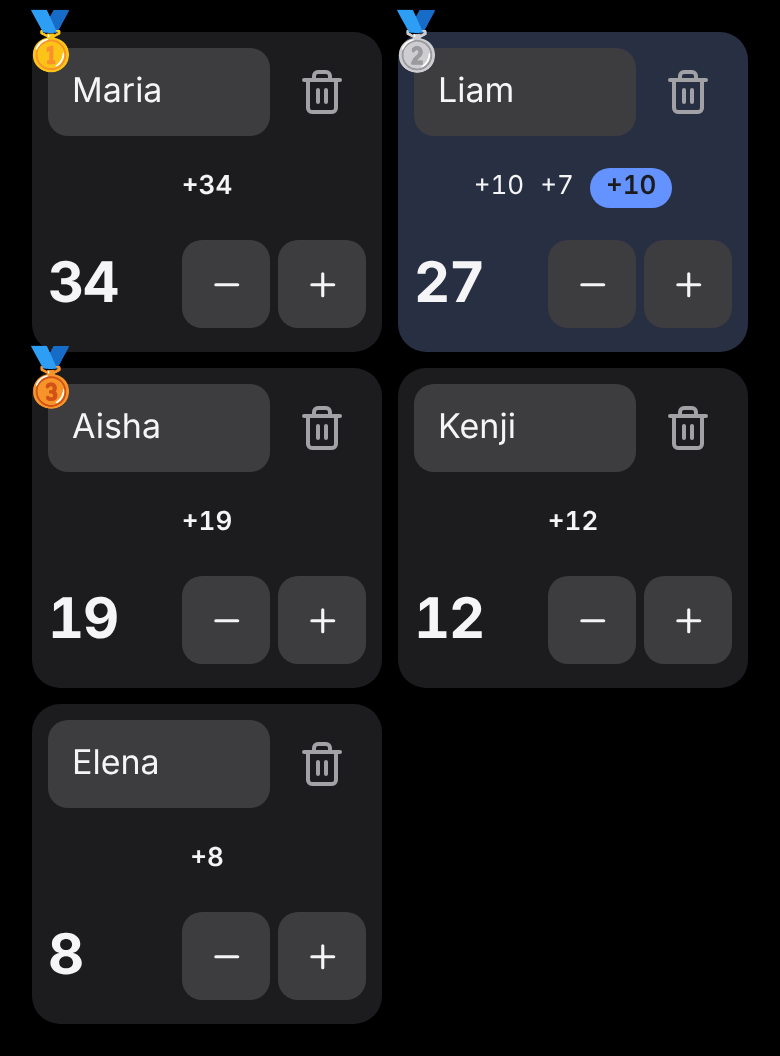
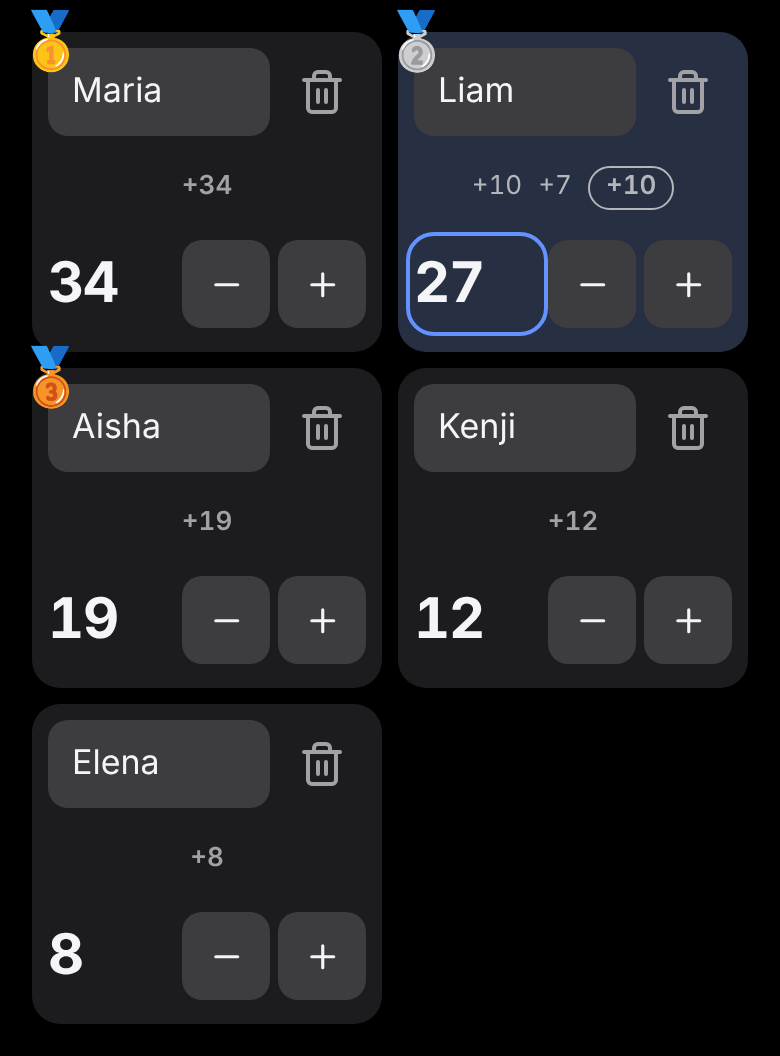
style(history): quieter last-changes line, the newest change included
Moni 2026-11-20: like a calculator's tape - noticeable, but in the background.
The last-scored card keeps its tint; its newest change is a thin outlined pill.

Claude-Session: https://claude.ai/code/session_011u5MwhQ4SCvg7CGyrWTMMa

diff --git a/app/src/styles/components/history.css b/app/src/styles/components/history.css
@@ -1,6 +1,6 @@
 /* Score history (app/src/players/history-*.tsx, SPEC 1.1 F16): the "last changes" line on each player card
    and the history sheet behind it. The line reads like a calculator's tape above its result: small, dimmed,
-   oldest → newest from left to right, the newest at the right end in the text colour. */
+   oldest → newest from left to right, the newest at the right end, a little heavier. */
 @layer components {
   /* || Components: last changes line */
   /* Always there, empty or not, so cards stay equal and nothing jumps at the first change. */
@@ -31,9 +31,10 @@
       transform: scale(0.97);
     }
 
-    /* The secondary grey on the tinted card is 4.34:1 (light), under AA for small text: full text colour there. */
+    /* The secondary grey on the tinted card is 4.34:1 (light), under AA for small text: a slightly darker
+       grey there (≈ 5:1), still in the background like the rest (Moni 2026-11-20). */
     .player-card[data-last-scored] & {
-      color: var(--color-text);
+      color: color-mix(in oklab, var(--color-text-secondary) 75%, var(--color-text));
     }
   }
 
@@ -63,19 +64,18 @@
       margin-inline-start: auto;
     }
 
+    /* Quiet on purpose (Moni 2026-11-20: "noticeable, but not quite", like a calculator's tape): the newest
+       change keeps the line's grey and is only a little heavier. */
     &[data-newest] {
-      color: var(--color-text);
       font-weight: var(--weight-semibold);
     }
 
-    /* The last-scored card: its newest change is a pill — the mark is a shape too, not colour alone. The
-       accent-text colour keeps the pill ≥ 4.6:1 against the tinted card in both themes (accent fill: 2:1 dark),
-       and the card's surface colour reads on it (6.7:1 light, 6.0:1 dark; DECISIONS 2026-11-20). */
+    /* The last-scored card: its newest change sits in a thin outlined pill — the mark is a shape too, not
+       colour alone — in the same grey as the line. */
     .player-card[data-last-scored] &[data-newest] {
       padding-inline: var(--space-2);
+      border: 1px solid currentcolor;
       border-radius: var(--radius-full);
-      background: var(--color-accent-text);
-      color: var(--color-surface);
     }
   }
 

diff --git a/docs/DECISIONS.md b/docs/DECISIONS.md
@@ -91,3 +91,4 @@ Format: date · decision · reason.
 - 2026-11-20 · × removes at once (ui-patterns §4: one small reversible item, no alert) and **Restore** sits in the sheet's own button row (`Restore +12`, beside Close, two equal columns at every width) instead of the `showUndo` toast of the chapter: in this app a toast inside an open dialog is prepended to the sheet and pushed every row down by its height under the finger (a second tap would hit another change), and an overlay would hide the title and the total that just changed. The Restore offer stays until the sheet closes (no time limit, WCAG 2.2.1) and the status is read out politely. Core `restoreScoreEntry(game, playerId, entry, index)` puts the same entry back at the same index (fast-check: remove → restore = the same game); refused with SCORE_ENTRY_EXISTS, SCORE_INVALID or SCORE_OUT_OF_RANGE. Difference from the chapter recorded for the forge (learning) · Moni: "a wrong one is removed with one press".
 - 2026-11-20 · Density (B5): `data-density` on the grid — comfortable ≤ 4 players, compact from 5 (`COMFORTABLE_MAX_PLAYERS`). `.app-main` is the container `main`; columns: comfortable 2 → 4 (> 45 rem), compact 2 → 3 (> 29 rem) → 4 (> 40 rem) → 5 (> 51 rem). Compact cards: 8 px padding and gaps; a score of ≤ 3 characters sits beside − and + (iOS stepper order score, −, + — DOM and focus order match the picture) when the card is ≥ 9 rem (container `player-card`); longer scores keep their own row. Score sizes are capped by the card width (`cqi`: "-999999" ≈ 4.2 em) so a 6-digit score fits a 320 px card. Phone card: 1.0.0 180 px → compact 160 px (e2e asserts < 180), all targets 44 px · Moni: "with more cards they should shrink a little so more fit in the view".
 - 2026-11-20 · The history sheet is not a lazy chunk: first-load JS 121.9 KB gzip with it (perf-check, budget 125 KB) — a lazy chunk would save ~1 KB and add a stand-in for the first tap (react §7). Revisit when the budget is tighter.
+- 2026-11-20 · The last-changes line is quieter: every change, the newest included, uses the dimmed grey (newest only a little heavier); on the last-scored card the newest sits in a thin outlined pill instead of a filled accent pill, and the line there is a slightly darker grey (≈ 5:1 on the tint, AA). · Moni after the 1.1.0 screenshots: the history should be more in the background, the last one too — "like in a calculator: noticeable, but not quite".

diff --git a/LEARNINGS.md b/LEARNINGS.md
@@ -11,3 +11,4 @@ Corrections captured for `/learn` (format: forge:flow → learn §1). Newest las
 - Evidence: commit / file / screenshot path
 - Scope guess: general (plugin) | this project only
 -->
+- 2026-11-20 · Moni: secondary information on a card (the last-changes line) must stay in the background, the newest value included — no filled accent shapes for it. Applied in history.css.
